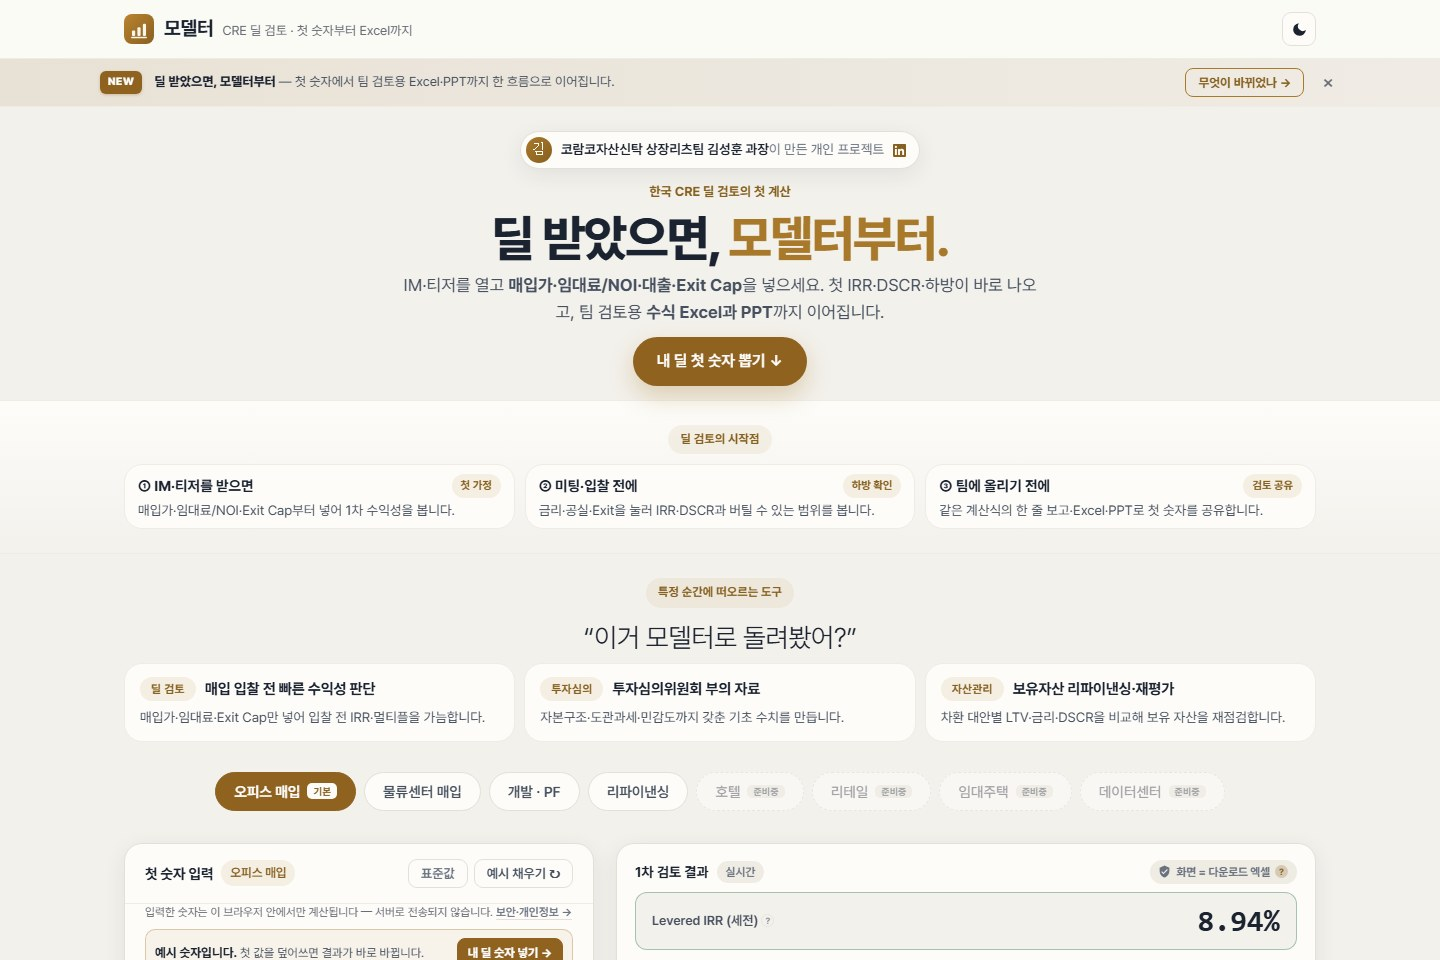
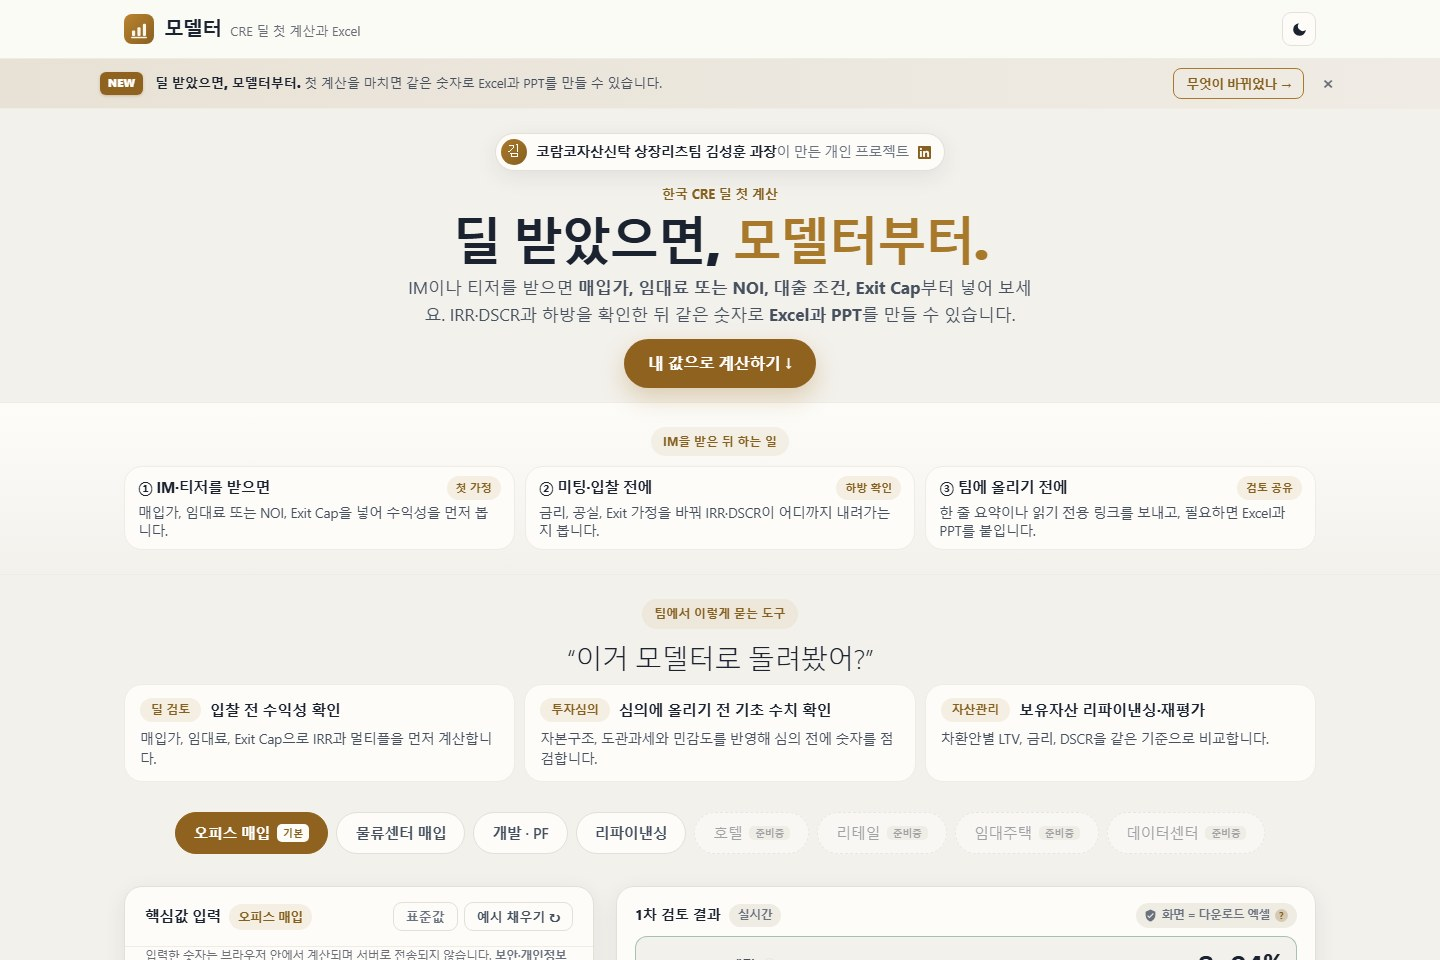
네이버 첫 검토 게시 자산을 최신 화면으로 갱신 (#108)

diff --git a/tools/capture-naver-assets.js b/tools/capture-naver-assets.js
@@ -1,5 +1,5 @@
 #!/usr/bin/env node
-/* 네이버 IM 첫 검토 글용 샘플 화면 4장 재현 캡처.
+/* 네이버 IM 첫 검토 글용 썸네일+샘플 화면 5장 재현 캡처.
  * - 배포 서버가 아니라 로컬 정적 파일만 연다: 실제 /e 전송 0
  * - 매번 새 브라우저 컨텍스트를 써 기존 사용자 저장값 0
  * - 앱에 내장된 예시 딜만 사용: 실제 딜명·수치·PII 0
@@ -10,6 +10,7 @@
 const fs = require('fs');
 const path = require('path');
 const http = require('http');
+const { pathToFileURL } = require('url');
 
 function req(mod) {
   try { return require(mod); } catch (_) {}
@@ -25,6 +26,7 @@ if (!pw) { console.error('playwright 모듈을 찾지 못했습니다'); process
 const ROOT = path.resolve(__dirname, '..');
 const WEB = path.join(ROOT, 'dart-search', 'web', 'modelter');
 const OUT = path.join(ROOT, 'docs', 'assets', 'naver-im-first-look');
+const THUMB = path.join(__dirname, 'naver-im-first-look-thumbnail.svg');
 const PORT = 8978;
 const URL0 = `http://127.0.0.1:${PORT}/`;
 
@@ -42,9 +44,11 @@ const server = http.createServer((rq, rs) => {
 });
 
 async function settle(page) {
-  await page.addStyleTag({ content: '*,*::before,*::after{animation:none!important;transition:none!important}html{scroll-behavior:auto!important}' });
+  await page.waitForLoadState('load');
+  await page.evaluate(() => document.fonts && document.fonts.ready);
+  await page.addStyleTag({ content: '*,*::before,*::after{animation:none!important;transition:none!important;caret-color:transparent!important}html{scroll-behavior:auto!important}' });
   await page.evaluate(() => { try { localStorage.setItem('mt_qa', '1'); } catch (_) {} });
-  await page.waitForTimeout(350);
+  await page.waitForTimeout(200);
 }
 
 async function capture(page, name) {
@@ -60,12 +64,22 @@ async function capture(page, name) {
   await new Promise(resolve => server.listen(PORT, resolve));
   const browser = await pw.chromium.launch({ headless: true });
   const ctx = await browser.newContext({ viewport: { width: 1440, height: 960 }, deviceScaleFactor: 1, colorScheme: 'light' });
+  await ctx.route('**/*', route => {
+    const u = route.request().url();
+    if (u.startsWith(URL0) || u.startsWith('file://')) route.continue();
+    else route.abort();
+  });
   const page = await ctx.newPage();
   try {
-    console.log('네이버 게시용 샘플 화면 캡처');
+    console.log('네이버 게시용 썸네일·샘플 화면 캡처');
+
+    await page.goto(pathToFileURL(THUMB).href, { waitUntil: 'load' });
+    await page.waitForTimeout(150);
+    await capture(page, '00-thumbnail.jpg');
 
     await page.goto(URL0, { waitUntil: 'domcontentloaded' });
     await settle(page);
+    await page.waitForTimeout(1200);
     await page.evaluate(() => scrollTo(0, 0));
     await capture(page, '01-home-first-number.jpg');
 
@@ -76,8 +90,13 @@ async function capture(page, name) {
 
     await page.goto(URL0 + '?publish_asset=1#t=office&src=sns', { waitUntil: 'domcontentloaded' });
     await settle(page);
-    await page.evaluate(() => { const el = document.getElementById('builder-start'); if (el) el.scrollIntoView({ block: 'start' }); scrollBy(0, -70); });
-    await page.waitForTimeout(550);
+    // 계산 직후 KPI의 1초 강조가 끝나고, 5.2초짜리 예시 고지는 남아 있는 고정 구간에서 찍는다.
+    await page.waitForTimeout(3300);
+    await page.evaluate(() => {
+      const el = document.getElementById('builder-start');
+      if (el) scrollTo(0, Math.round(scrollY + el.getBoundingClientRect().top - 70));
+    });
+    await page.waitForTimeout(100);
     await capture(page, '03-office-first-number.jpg');
 
     await page.locator('#handoffBtn').scrollIntoViewIfNeeded();
@@ -88,7 +107,7 @@ async function capture(page, name) {
     await page.waitForTimeout(250);
     await capture(page, '04-team-handoff.jpg');
 
-    console.log('✅ 실제 딜·계정 정보 없는 게시 자산 4장 생성');
+    console.log('✅ 실제 딜·계정 정보 없는 게시 자산 5장 생성');
   } finally {
     await ctx.close();
     await browser.close();

diff --git a/dart-search/web/modelter/verification.html b/dart-search/web/modelter/verification.html
@@ -69,7 +69,7 @@ try{if(!sessionStorage.getItem('mt_ref0')&&document.referrer){var _rh=new URL(do
     <div class="eyebrow">화면 값·Excel 수식 대조</div>
     <h1>화면 값과 Excel 수식이<br>같은지 확인했습니다.</h1>
     <p class="lead">화면 값과 다운로드 Excel 수식을 별도 엔진으로 다시 계산해 대조합니다. 아래에 최신 결과와 같은 검사를 실행하는 명령을 적었습니다.</p>
-    <div class="build">빌드 <b>2026-08-16·c9eb3daac1</b> · git 61258e8 · 2026-08-16</div>
+    <div class="build">빌드 <b>2026-08-16·c9eb3daac1</b> · git ce2f493 · 2026-08-16</div>
   </div>
 
   <section>

diff --git a/docs/NAVER_BLOG_IM_FIRST_LOOK.md b/docs/NAVER_BLOG_IM_FIRST_LOOK.md
@@ -5,7 +5,7 @@
 ## 게시 세팅
 
 - 제목: **상업용 부동산 IM을 받았을 때, 15분 안에 IRR·DSCR 보는 순서**
-- 썸네일 문구: **IM 받았으면 / 첫 숫자 15분**
+- 썸네일: [`00-thumbnail.jpg`](assets/naver-im-first-look/00-thumbnail.jpg) — 문구 **IM 받았으면 / 첫 숫자 15분**
 - 설명 첫 문장: `IM이나 티저를 받은 뒤, 계속 검토할 딜인지 먼저 가려내는 15분 검토 순서입니다.`
 - 카테고리: 상업용 부동산 / 부동산 금융 / 실무 도구 중 기존 블로그 분류에 맞는 하나
 - 해시태그: `#상업용부동산 #CRE #IM검토 #IRR #DSCR #CapRate #부동산금융 #재무모델`
@@ -94,21 +94,22 @@ https://modelter.com/#t=office&src=sns
 
 첫 계산은 투자 권유나 투자심의 모델을 대신하지 않습니다. 화면과 글에 나온 숫자와 범위는 샘플이며 실제 시세가 아닙니다. 실사 자료, 약정 정의, 법률·세무 검토와 회사별 기준으로 다시 확인해 주세요.
 
-## 게시 이미지 4장 — 생성 완료
+## 게시 이미지 5장 — 생성 완료
 
 모든 화면은 새 브라우저 컨텍스트의 샘플 모드로만 캡처했으며 브라우저 주소창·알림·계정 정보가 없다. `node tools/capture-naver-assets.js`로 로컬 앱에서만 재현하므로 `/e` 전송도 발생하지 않는다.
 
-1. [`01-home-first-number.jpg`](assets/naver-im-first-look/01-home-first-number.jpg) — 대체텍스트: `상업용 부동산 첫 숫자를 계산하는 모델터`
-2. [`02-im-checklist.jpg`](assets/naver-im-first-look/02-im-checklist.jpg) — 대체텍스트: `상업용 부동산 IM 검토 체크리스트`
-3. [`03-office-first-number.jpg`](assets/naver-im-first-look/03-office-first-number.jpg) — 대체텍스트: `매입가와 NOI 가정으로 IRR과 DSCR을 확인하는 화면`
-4. [`04-team-handoff.jpg`](assets/naver-im-first-look/04-team-handoff.jpg) — 대체텍스트: `첫 숫자를 팀에 전달하고 화면과 Excel 일치를 확인하는 과정`
+1. [`00-thumbnail.jpg`](assets/naver-im-first-look/00-thumbnail.jpg) — 게시 썸네일. 대체텍스트: `상업용 부동산 IM을 받은 뒤 첫 숫자를 15분 안에 확인하는 순서`
+2. [`01-home-first-number.jpg`](assets/naver-im-first-look/01-home-first-number.jpg) — 대체텍스트: `상업용 부동산 첫 숫자를 계산하는 모델터`
+3. [`02-im-checklist.jpg`](assets/naver-im-first-look/02-im-checklist.jpg) — 대체텍스트: `상업용 부동산 IM 검토 체크리스트`
+4. [`03-office-first-number.jpg`](assets/naver-im-first-look/03-office-first-number.jpg) — 대체텍스트: `매입가와 NOI 가정으로 IRR과 DSCR을 확인하는 화면`
+5. [`04-team-handoff.jpg`](assets/naver-im-first-look/04-team-handoff.jpg) — 대체텍스트: `첫 숫자를 팀에 전달하고 화면과 Excel 일치를 확인하는 과정`
 
-네이버에는 위 순서대로 올리고 3·4번 화면의 `강남 A타워`와 숫자는 앱에 내장된 가상 샘플이라고 본문 또는 이미지 설명에 한 번 더 적는다. 새 캡처가 필요하면 스크립트를 다시 실행한 뒤 네 파일을 모두 교체해 서로 다른 빌드의 화면을 섞지 않는다.
+네이버 대표 이미지는 1번 썸네일로 지정한다. 본문에는 2~5번을 순서대로 올리고 4·5번 화면의 `강남 A타워`와 숫자는 앱에 내장된 가상 샘플이라고 본문 또는 이미지 설명에 한 번 더 적는다. 새 캡처가 필요하면 스크립트를 다시 실행한 뒤 다섯 파일을 모두 교체해 서로 다른 빌드의 화면을 섞지 않는다.
 
 ## 게시 직전 점검
 
 - [ ] 실제 딜명·수치·임차인명·회사명·개인정보가 본문과 이미지에 없다.
-- [ ] 이미지 3·4의 `강남 A타워`가 가상 샘플이라는 설명이 붙어 있다.
+- [ ] 이미지 4·5의 `강남 A타워`가 가상 샘플이라는 설명이 붙어 있다.
 - [ ] 모든 숫자 예시는 샘플이며 실제 시세가 아니라는 문구가 있다.
 - [ ] 투자 권유가 아니며 실사·약정·법률·세무·회사 기준으로 재검증한다는 문구가 있다.
 - [ ] 공유 링크가 암호화가 아니며 권한 채널에서만 써야 한다는 문구가 있다.

diff --git a/docs/STRATEGY.md b/docs/STRATEGY.md
@@ -328,6 +328,8 @@ E1~E8(발견·허가·전파)은 완료. 30일 로그의 기능 단위 판독이
 
 **사전 판정:** 게시 시각부터 14일을 고정하고 `blog.naver.com`·`m.blog.naver.com` 유입 합계 20세션 전에는 결론을 내리지 않는다. 그 뒤 활성화율 15% 이상이고 실제 산출물 1건 이상이면 같은 문제군의 후속 글을 검토한다. 15% 미만이면 글을 더 만들지 않고 제목·첫 링크·검색 의도부터 고친다. 이 채널 판정은 북극성의 질적·팀 전달 증거를 대신하지 않는다.
 
+**2026-08-16 게시 자산 보완:** 사이트 문장 교정 전 캡처에 이전 CTA가 남아 있어 4개 샘플 화면을 최신 빌드로 다시 만든다. 대표 이미지도 지시문만 두지 않고 `IM 받았으면, 첫 숫자 15분` 전용 썸네일로 생성한다. 썸네일 SVG와 로컬 캡처 스크립트를 함께 두고, 실제 딜·계정 정보와 `/e` 전송 없이 다섯 파일을 한 번에 재현한다. 게시·계정 작업은 여전히 운영자 확인 뒤에만 진행한다.
+
 ### 2026-08-16 정적 착지 유입원 계승 — 검색·블로그 효과의 자기참조 누수 보정
 
 **관찰:** 최신 30일 879세션 중 유입 호스트가 `modelter.com`으로 기록된 세션이 651건이었다. 앱에 직접 도착하면 외부 `document.referrer` 호스트를 `dr`로 보존하지만, `/t/*`·`/calc/*`·`/howto`·`/im-checklist` 같은 정적 면을 먼저 거치면 계산기에서 직전 호스트가 자기 도메인으로 바뀌어 원 Google·Naver 유입을 잃는다. Search Console에서도 핵심 미색인 URL들이 “참조 사이트맵 없음·감지된 페이지 없음”으로 확인돼, 앞으로 정적 착지 비중이 늘수록 채널 판독 누수가 커질 수 있다.
